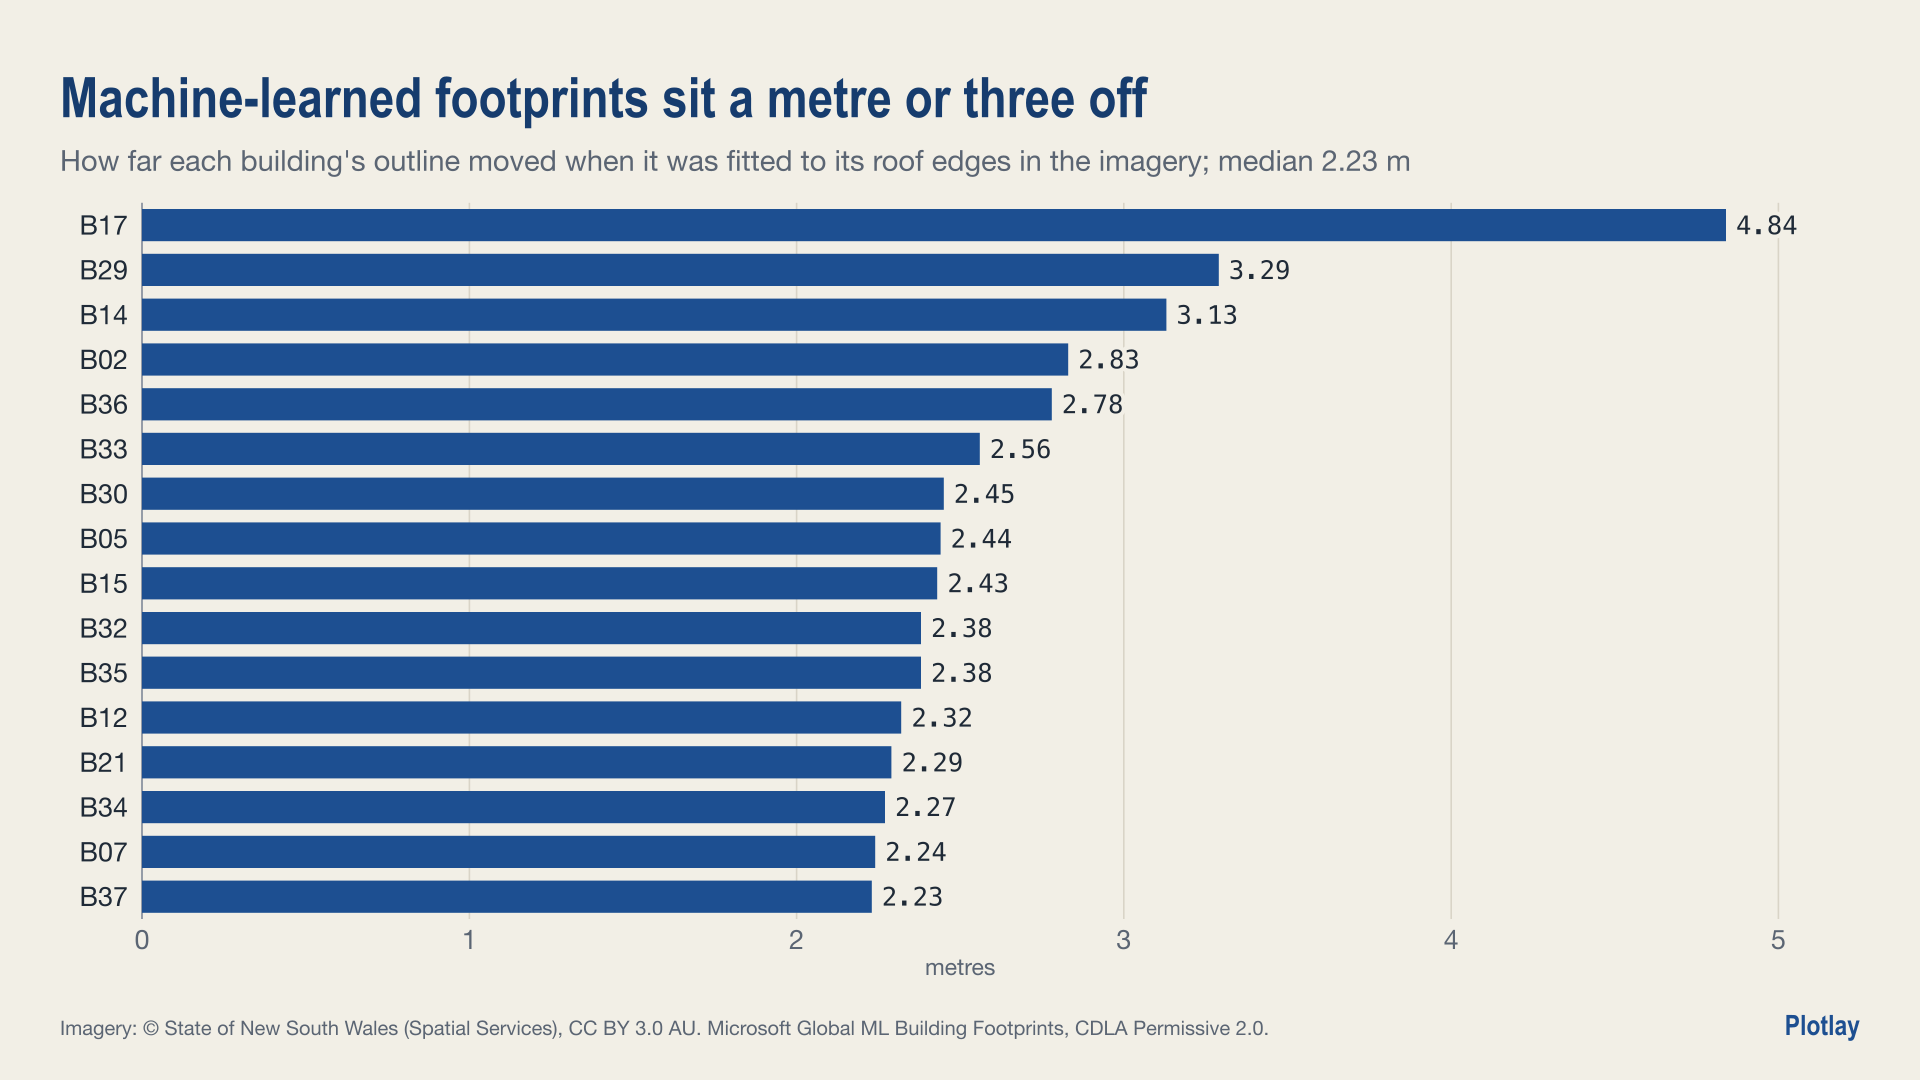
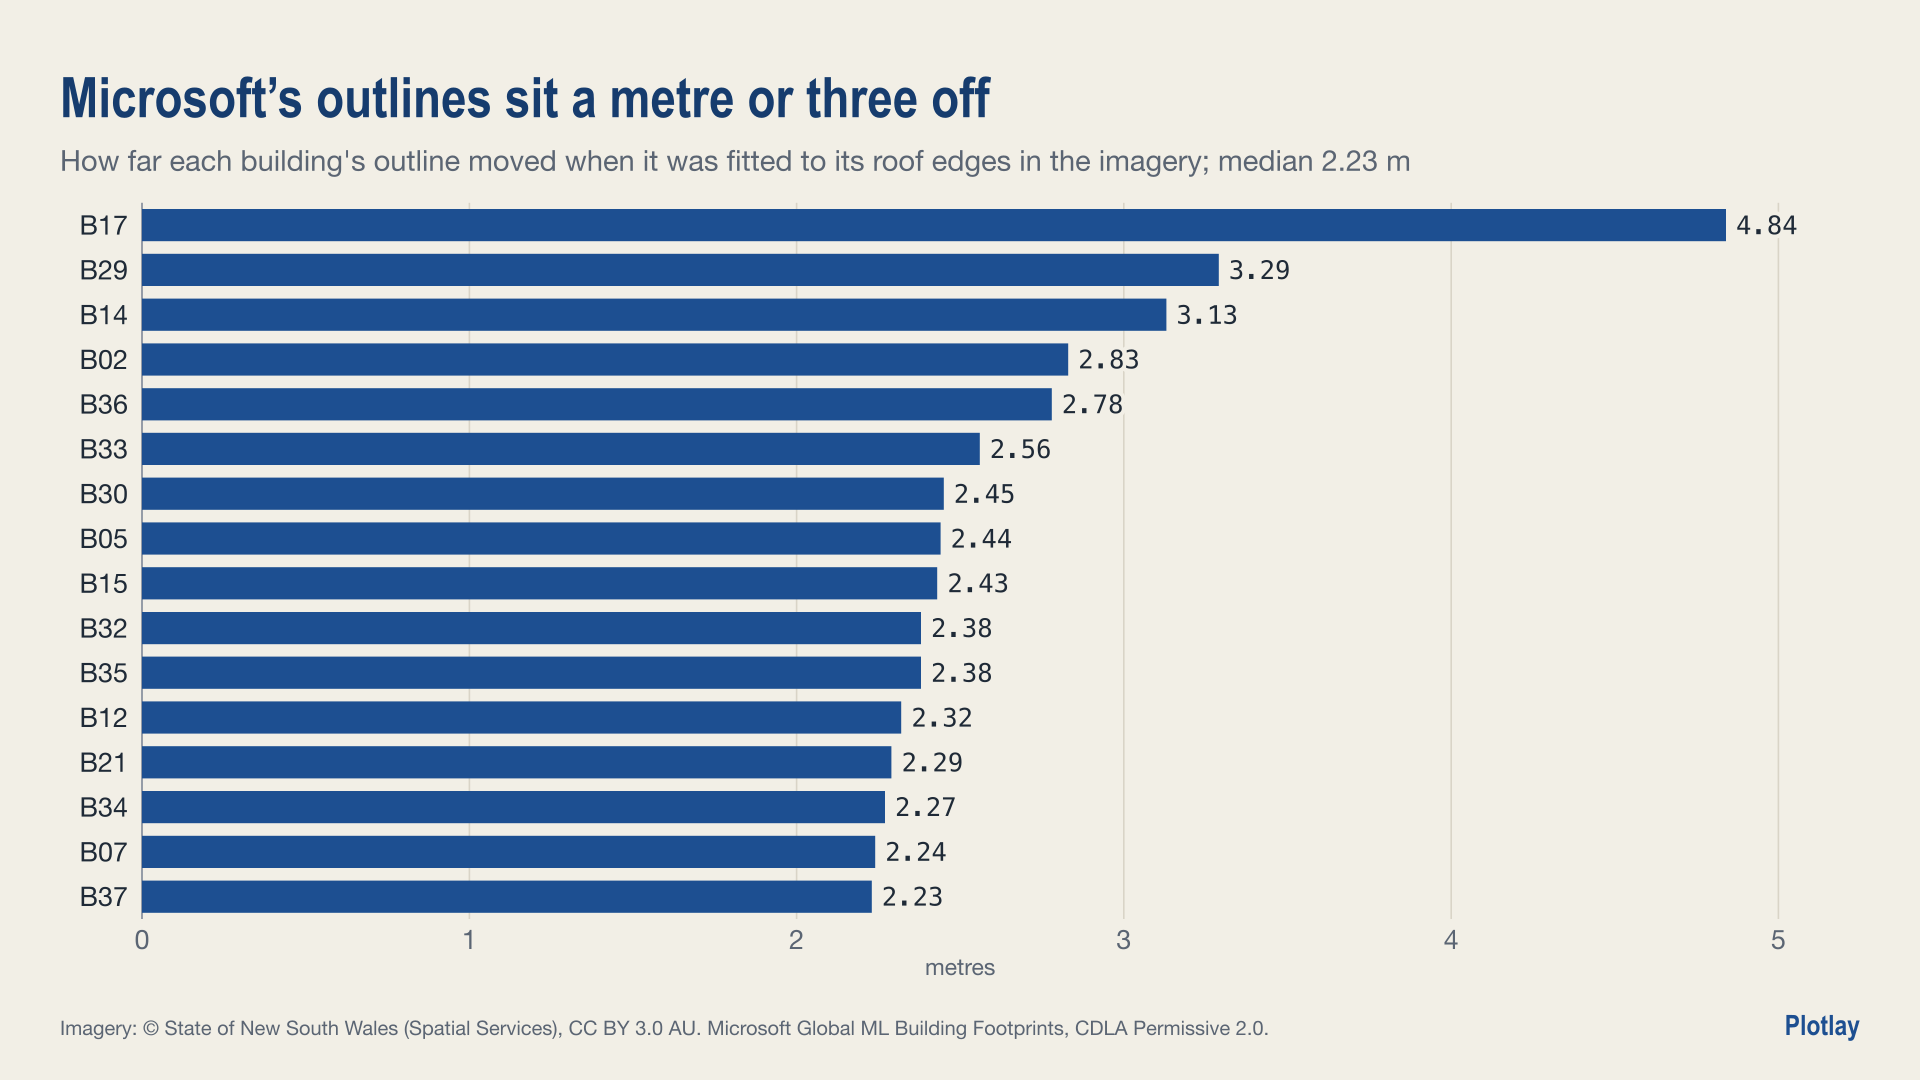
A 3D render from Plotlay, phone versions of the charts, plainer wording for Microsoft's outlines, the meters heat map against each building's busiest hour

Changed region(s): [[0.0625, 0.0611, 0.5938, 0.1222]]

diff --git a/README.md b/README.md
@@ -6,7 +6,7 @@ TAFE NSW Richmond, on the Hawkesbury flood plain west of Sydney. **Live version,
 
 ![One building on the map, 38 on the campus: the buildings drawn over NSW aerial imagery, coloured by where each outline came from](visuals/hero_map_16x9.png)
 
-OpenStreetMap has 1 building inside the campus. NSW's building footprint layer is licensed to government agencies only. The land title is a 292 ha lot shared with the university next door, so there is no parcel to start from. Microsoft's machine-learned footprints find 33 shapes, which miss 5 buildings and sit a median 2.23 m off the roofs. In [Plotlay](https://www.getplotlay.com) all 38 buildings were drawn out over NSW aerial imagery (CC BY 3.0 AU), and each carries where its outline came from and how accurate it is likely to be.
+OpenStreetMap has 1 building inside the campus. NSW's building footprint layer is licensed to government agencies only. The land title is a 292 ha lot shared with the university next door, so there is no parcel to start from. Microsoft's building outlines, made by software from aerial photos, find 33 shapes, which miss 5 buildings and sit a median 2.23 m off the roofs. In [Plotlay](https://www.getplotlay.com) all 38 buildings were drawn out over NSW aerial imagery (CC BY 3.0 AU), and each carries where its outline came from and how accurate it is likely to be.
 
 [![Open in Plotlay](https://img.shields.io/badge/Open_in-Plotlay-1d4f91)](https://app.plotlay.io/?example=tafe-richmond&as=client)
 
@@ -19,6 +19,8 @@ OpenStreetMap has 1 building inside the campus. NSW's building footprint layer i
 | Microsoft footprint, picked as it is (a complex roof, not refined) | 2 | ±2.5 m |
 
 Accuracy depends on the imagery: a roof outline includes the eaves, and a shadow or a tree over an edge can hide it. These are what the drawing method can hold to; where law or a contract needs a licensed surveyor, their licence and sign-off are what count.
+
+![The 38 buildings in Plotlay's 3D view over NSW aerial imagery, each shown 4 m high (heights not measured)](visuals/render_3d_16x9.png)
 
 ![How far Microsoft's footprints were off](visuals/chart_ms_offset_16x9.png)
 
